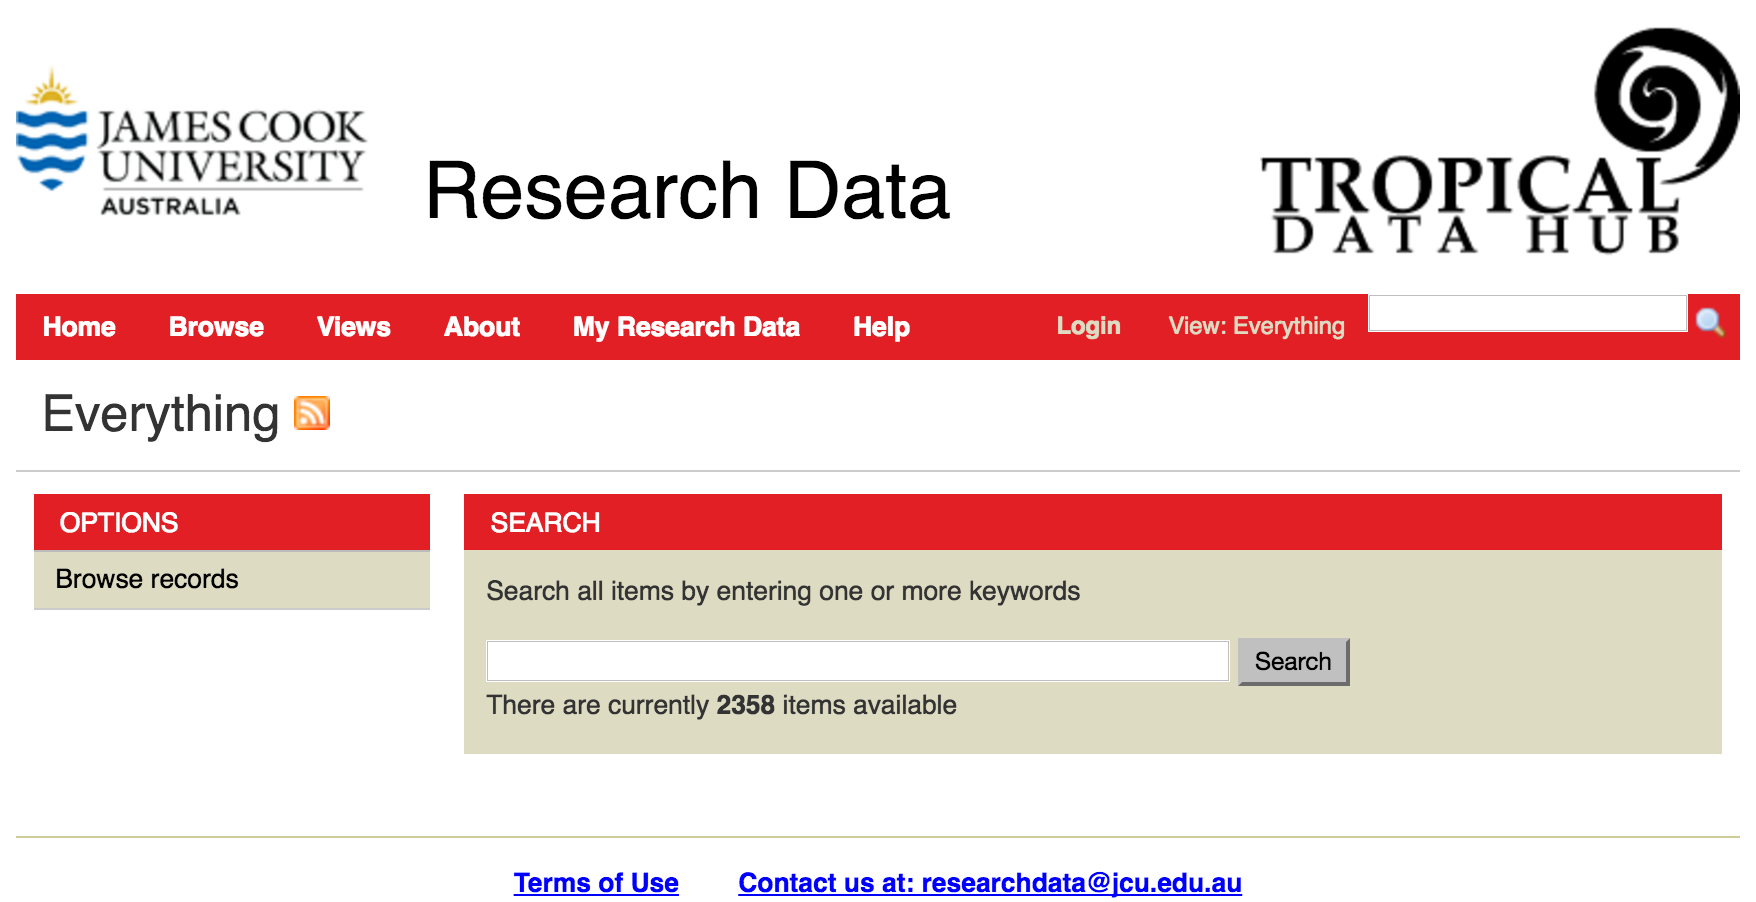
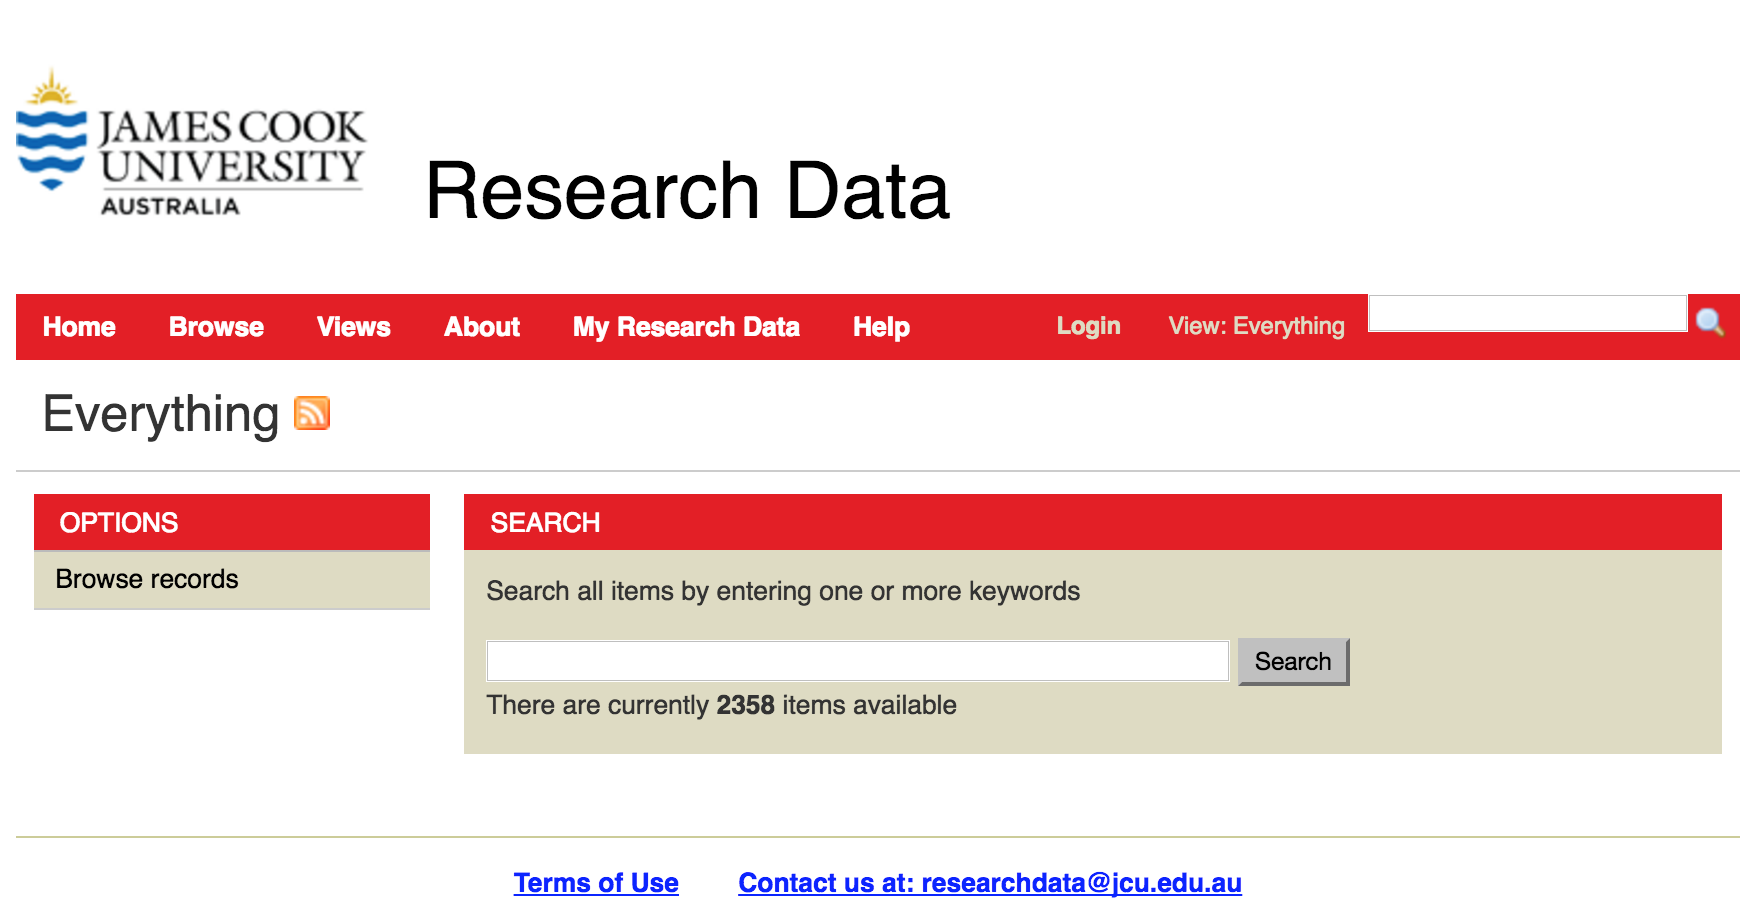
Remove old references, use Research Data JCU name

Changed region(s): [[0.7073, 0.031, 1.0, 0.2794], [0.2768, 0.9623, 0.7073, 0.9933]]

diff --git a/_templates/layout.html b/_templates/layout.html
@@ -10,8 +10,6 @@
 {% block relbar1 %}
 
 <div id="header-block" style="background-color: white; text-align: left; padding: 10px 10px 15px 15px">
-<a href="{{ pathto('index') }}"><img src="{{
-pathto("_static/logo.png", 1) }}" border="0" alt="Tropical Data Hub"/></a>
 <h1><a href=""{{ pathto('index') }}">Research Data - User Guide</a></h1>
 </div>
 {{ super() }}

diff --git a/conf.py b/conf.py
@@ -43,8 +43,8 @@ source_suffix = '.rst'
 master_doc = 'index'
 
 # General information about the project.
-project = u'TDH Research Data - User Guide'
-copyright = u'CC-BY-NC 2013, eResearch Centre, James Cook University'
+project = u'Research Data JCU - User Guide'
+copyright = u'CC-BY-NC 2013-2020, eResearch Centre, James Cook University'
 
 # The version info for the project you're documenting, acts as replacement for
 # |version| and |release|, also used in various other places throughout the
@@ -196,7 +196,7 @@ latex_elements = {
 # (source start file, target name, title,
 #  author, documentclass [howto, manual, or own class]).
 latex_documents = [
-  ('index', 'TDH-ResearchData-UserGuide.tex', u'TDH Research Data - User Guide',
+  ('index', 'ResearchDataJCU-UserGuide.tex', u'Research Data JCU - User Guide',
    u'eResearch Centre, JCU', 'manual'),
 ]
 
@@ -226,7 +226,7 @@ latex_documents = [
 # One entry per manual page. List of tuples
 # (source start file, name, description, authors, manual section).
 man_pages = [
-    ('index', 'tdh-researchdata-userguide', u'TDH Research Data - User Guide',
+    ('index', 'researchdatajcu-userguide', u'Research Data JCU - User Guide',
      [u'eResearch Centre, JCU'], 1)
 ]
 
@@ -240,8 +240,8 @@ man_pages = [
 # (source start file, target name, title, author,
 #  dir menu entry, description, category)
 texinfo_documents = [
-  ('index', 'TDH-ResearchData-UserGuide', u'TDH Research Data - User Guide',
-   u'eResearch Centre, JCU', 'TDH-ResearchData-UserGuide', 'One line description of project.',
+  ('index', 'ResearchDataJCU-UserGuide', u'Research Data JCU - User Guide',
+   u'eResearch Centre, JCU', 'ResearchDataJCU-UserGuide', 'One line description of project.',
    'Miscellaneous'),
 ]
 
@@ -261,13 +261,13 @@ texinfo_documents = [
 # -- Options for Epub output ----------------------------------------------
 
 # Bibliographic Dublin Core info.
-epub_title = u'TDH Research Data - User Guide'
+epub_title = u'Research Data JCU - User Guide'
 epub_author = u'eResearch Centre'
 epub_publisher = u'James Cook University'
 epub_copyright = u'This work is licensed under the Creative Commons Attribution-NonCommercial 3.0 Australia License. To view a copy of this license, visit http://creativecommons.org/licenses/by-nc/3.0/au/.'
 
 # The basename for the epub file. It defaults to the project name.
-#epub_basename = u'TDH Research Data - User Guide'
+#epub_basename = u'Research Data JCU - User Guide'
 
 # The HTML theme for the epub output. Since the default themes are not optimized
 # for small screen space, using the same theme for HTML and epub output is

diff --git a/about.rst b/about.rst
@@ -1,31 +1,35 @@
-About the Tropical Data Hub Research Data repository
-====================================================
+About the Research Data JCU
+===========================
 
-The Tropical Data Hub (TDH) Research Data repository aims to be an easy-to-use site that 
-allows users to create records describing their research data: what it is, why it was created, 
-who contributed to the datasets, where it is stored and how it can be used. This will enable 
-JCU to build a profile of the research data and facilitate sharing and collaboration both within 
-JCU and externally. 
+Research Data JCU aims to be an easy-to-use site that allows users to create
+records describing their research data: what it is, why it was created, who
+contributed to the datasets, where it is stored and how it can be used. This
+will enable JCU to build a profile of the research data and facilitate sharing
+and collaboration both within JCU and externally.
 
 Data Storage
 ------------
-The TDH Research Data repository can be used to store publicly available data up to 50 MB in size
-per data record. James Cook University can cater for research data storage in the 100s of TBs on other
-systems. Please contact researchdata@jcu.edu.au to discuss your storage requirements.
 
-TDH Research Data Repository and Research Data Australia
---------------------------------------------------------
+Research Data JCU can be used to store publicly available data up to 50 MB in
+size per data record. James Cook University can cater for research data
+storage in the 100s of TBs on other systems. Please contact
+researchdata@jcu.edu.au to discuss your storage requirements.
 
-The data descriptions, as well as records of the people and projects associated with the data  
-are made publicly available and shared with Research Data Australia (RDA) regardless of 
-whether the actual research data itself is made publicly available or not. Therefore 
-confidential or sensitive information about the data should not be included in the metadata 
-record.
+Research Data JCU and Research Data Australia
+---------------------------------------------
+
+The data descriptions, as well as records of the people and projects
+associated with the data are made publicly available and shared with Research
+Data Australia (RDA) regardless of whether the actual research data itself is
+made publicly available or not. Therefore confidential or sensitive
+information about the data should not be included in the metadata record.
 
 About this guide
 -----------------
 
-TDH Research Data can be used without prior training. Help text is available with the site 
-and this guide is intended to provide more detailed support if required. For further 
-assistance, please contact the eResearch Centre: researchdata@jcu.edu.au
+Research Data JCU can be used without prior training. Help text is available
+with the site and this guide is intended to provide more detailed support if
+required. For further assistance, please contact the Research Data JCU team, a
+collaboration between the eResearch Centre and the JCU Library at
+researchdata@jcu.edu.au.
 

diff --git a/creating_a_research_record.rst b/creating_a_research_record.rst
@@ -1,7 +1,11 @@
 Adding a new Research Data Record
 =================================
 
-To add a new research record to Research Data, you need to access 'My Research Data'. You can access 'My Research Data' from the home page by clicking on 'My Research Data' in the menu bar or by going directly to http://research.jcu.edu.au/researchdata/dashboard. If you are not already logged into the site, the login box will appear at this point.
+To add a new research record to Research Data, you need to access 'My Research
+Data'. You can access 'My Research Data' from the home page by clicking on 'My
+Research Data' in the menu bar or by going directly to
+http://research.jcu.edu.au/researchdata/dashboard. If you are not already
+logged into the site, the login box will appear at this point.
 
 Logging In
 ----------
@@ -378,7 +382,7 @@ Attachments
 
 Use to attach your datasets up to a total size of 50 MB. Click on the 'Select file...' button, browse for you file and click 'Start Upload'. Multiple files can be uploaded.
 
-.. note:: This assumes your data will be made public. After submitting your record, it will be reviewed. If you indicate on the 'Rights' tab that access is restricted or private, the attached files will be stored in a private section of the 'Tropical Data Hub' where there is no public access. They will then be removed from this record. You will be contacted by a Digital Librarian to discuss this.
+.. note:: This assumes your data will be made public. After submitting your record, it will be reviewed. If you indicate on the 'Rights' tab that access is restricted or private, the attached files will be stored in a private section of Research Data JCU where there is no public access. They will then be removed from this record. You will be contacted by a Digital Librarian to discuss this.
 
 Retention Period
 ````````````````

diff --git a/accessing_the_site.rst b/accessing_the_site.rst
@@ -1,13 +1,13 @@
-Accessing TDH Research Data
+Accessing Research Data JCU
 ===========================
 
-TDH Research Data is publicly accessible and can be found at http://research.jcu.edu.au/researchdata.
+Research Data JCU is publicly accessible and can be found at https://research.jcu.edu.au/data.
 
 When you first go to the site, you are able to search/browse the published contents of the site.
 
 .. image:: _static/Main-site-HomePage.png
    :width: 100%
-   :alt: Home page for the Research Data site
+   :alt: Home page for the Research Data JCU site
 
 Browsing records
 ----------------

diff --git a/README.md b/README.md
@@ -1,2 +1,2 @@
-TDH-Research-Data-Catalogue
+Research-Data-JCU-Catalogue
 ===========================
